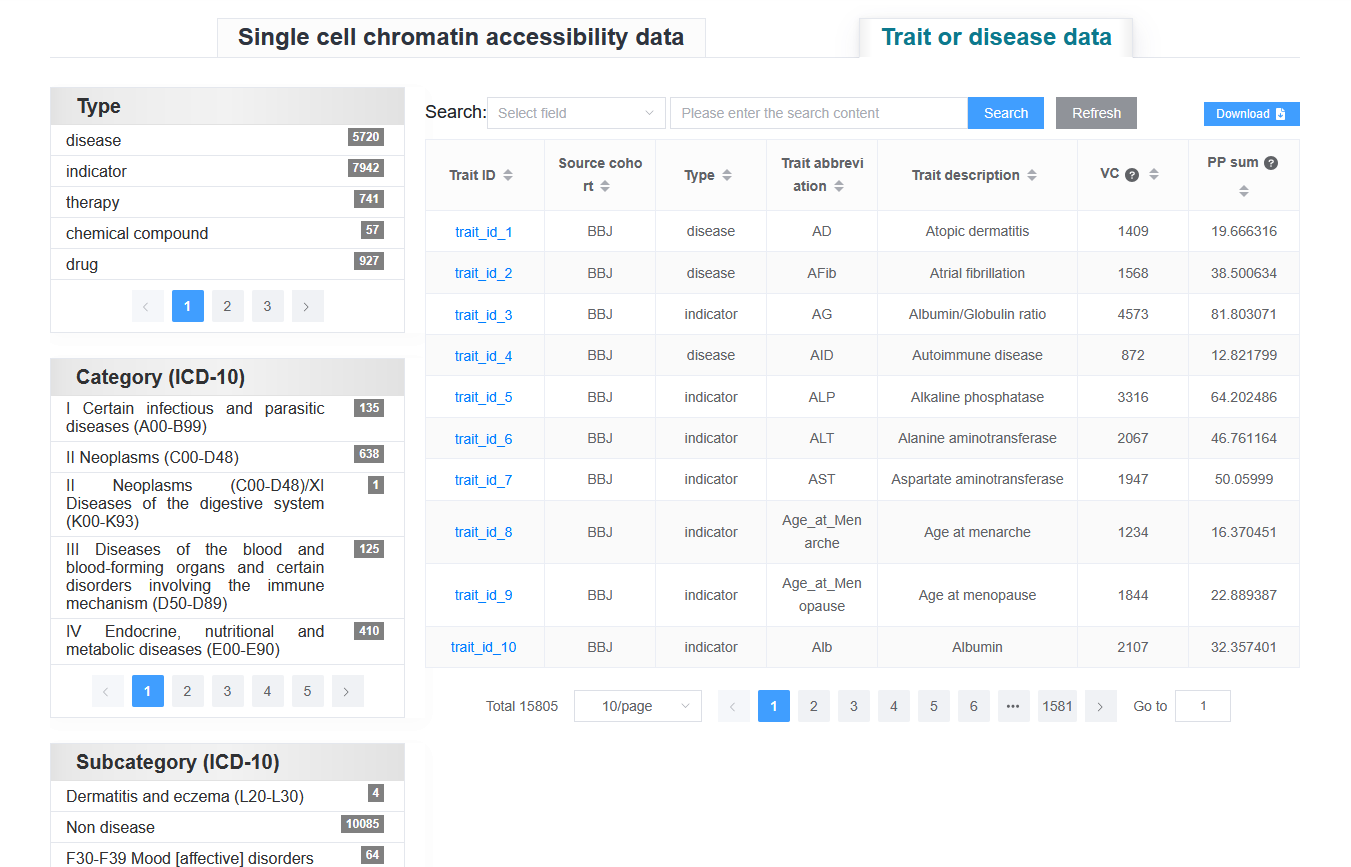
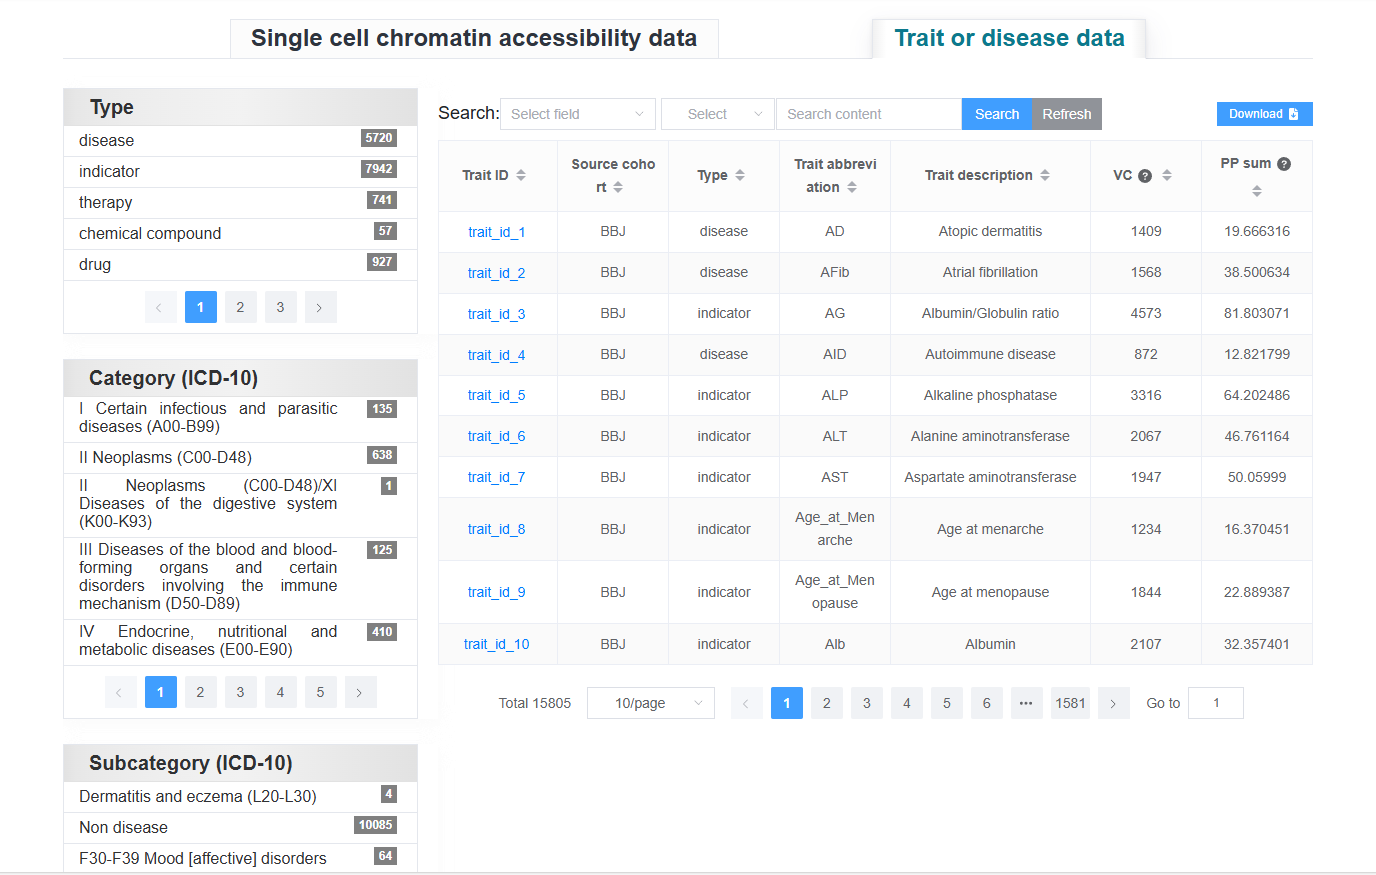
feat: Improve information content

diff --git a/docs/source/usage/dataBrowse.rst b/docs/source/usage/dataBrowse.rst
@@ -45,4 +45,4 @@ Similarly, fine mapping result data can be filtered using "Type", "Category (ICD
 
 .. note::
 
-    The preferred search criteria above are to select the column that need to be retrieved, and then add the search content. This is a precise match and does not support fuzzy matching, but supports ignoring case. Click button ``Refresh`` to obtain the original table without any retrieved information.
+    The first step is to select the column that needs to be searched, then you can choose the search mode, add the search content, and click the ``Search`` button to get the search results. Click button ``Refresh`` to obtain the original table without any retrieved information.
